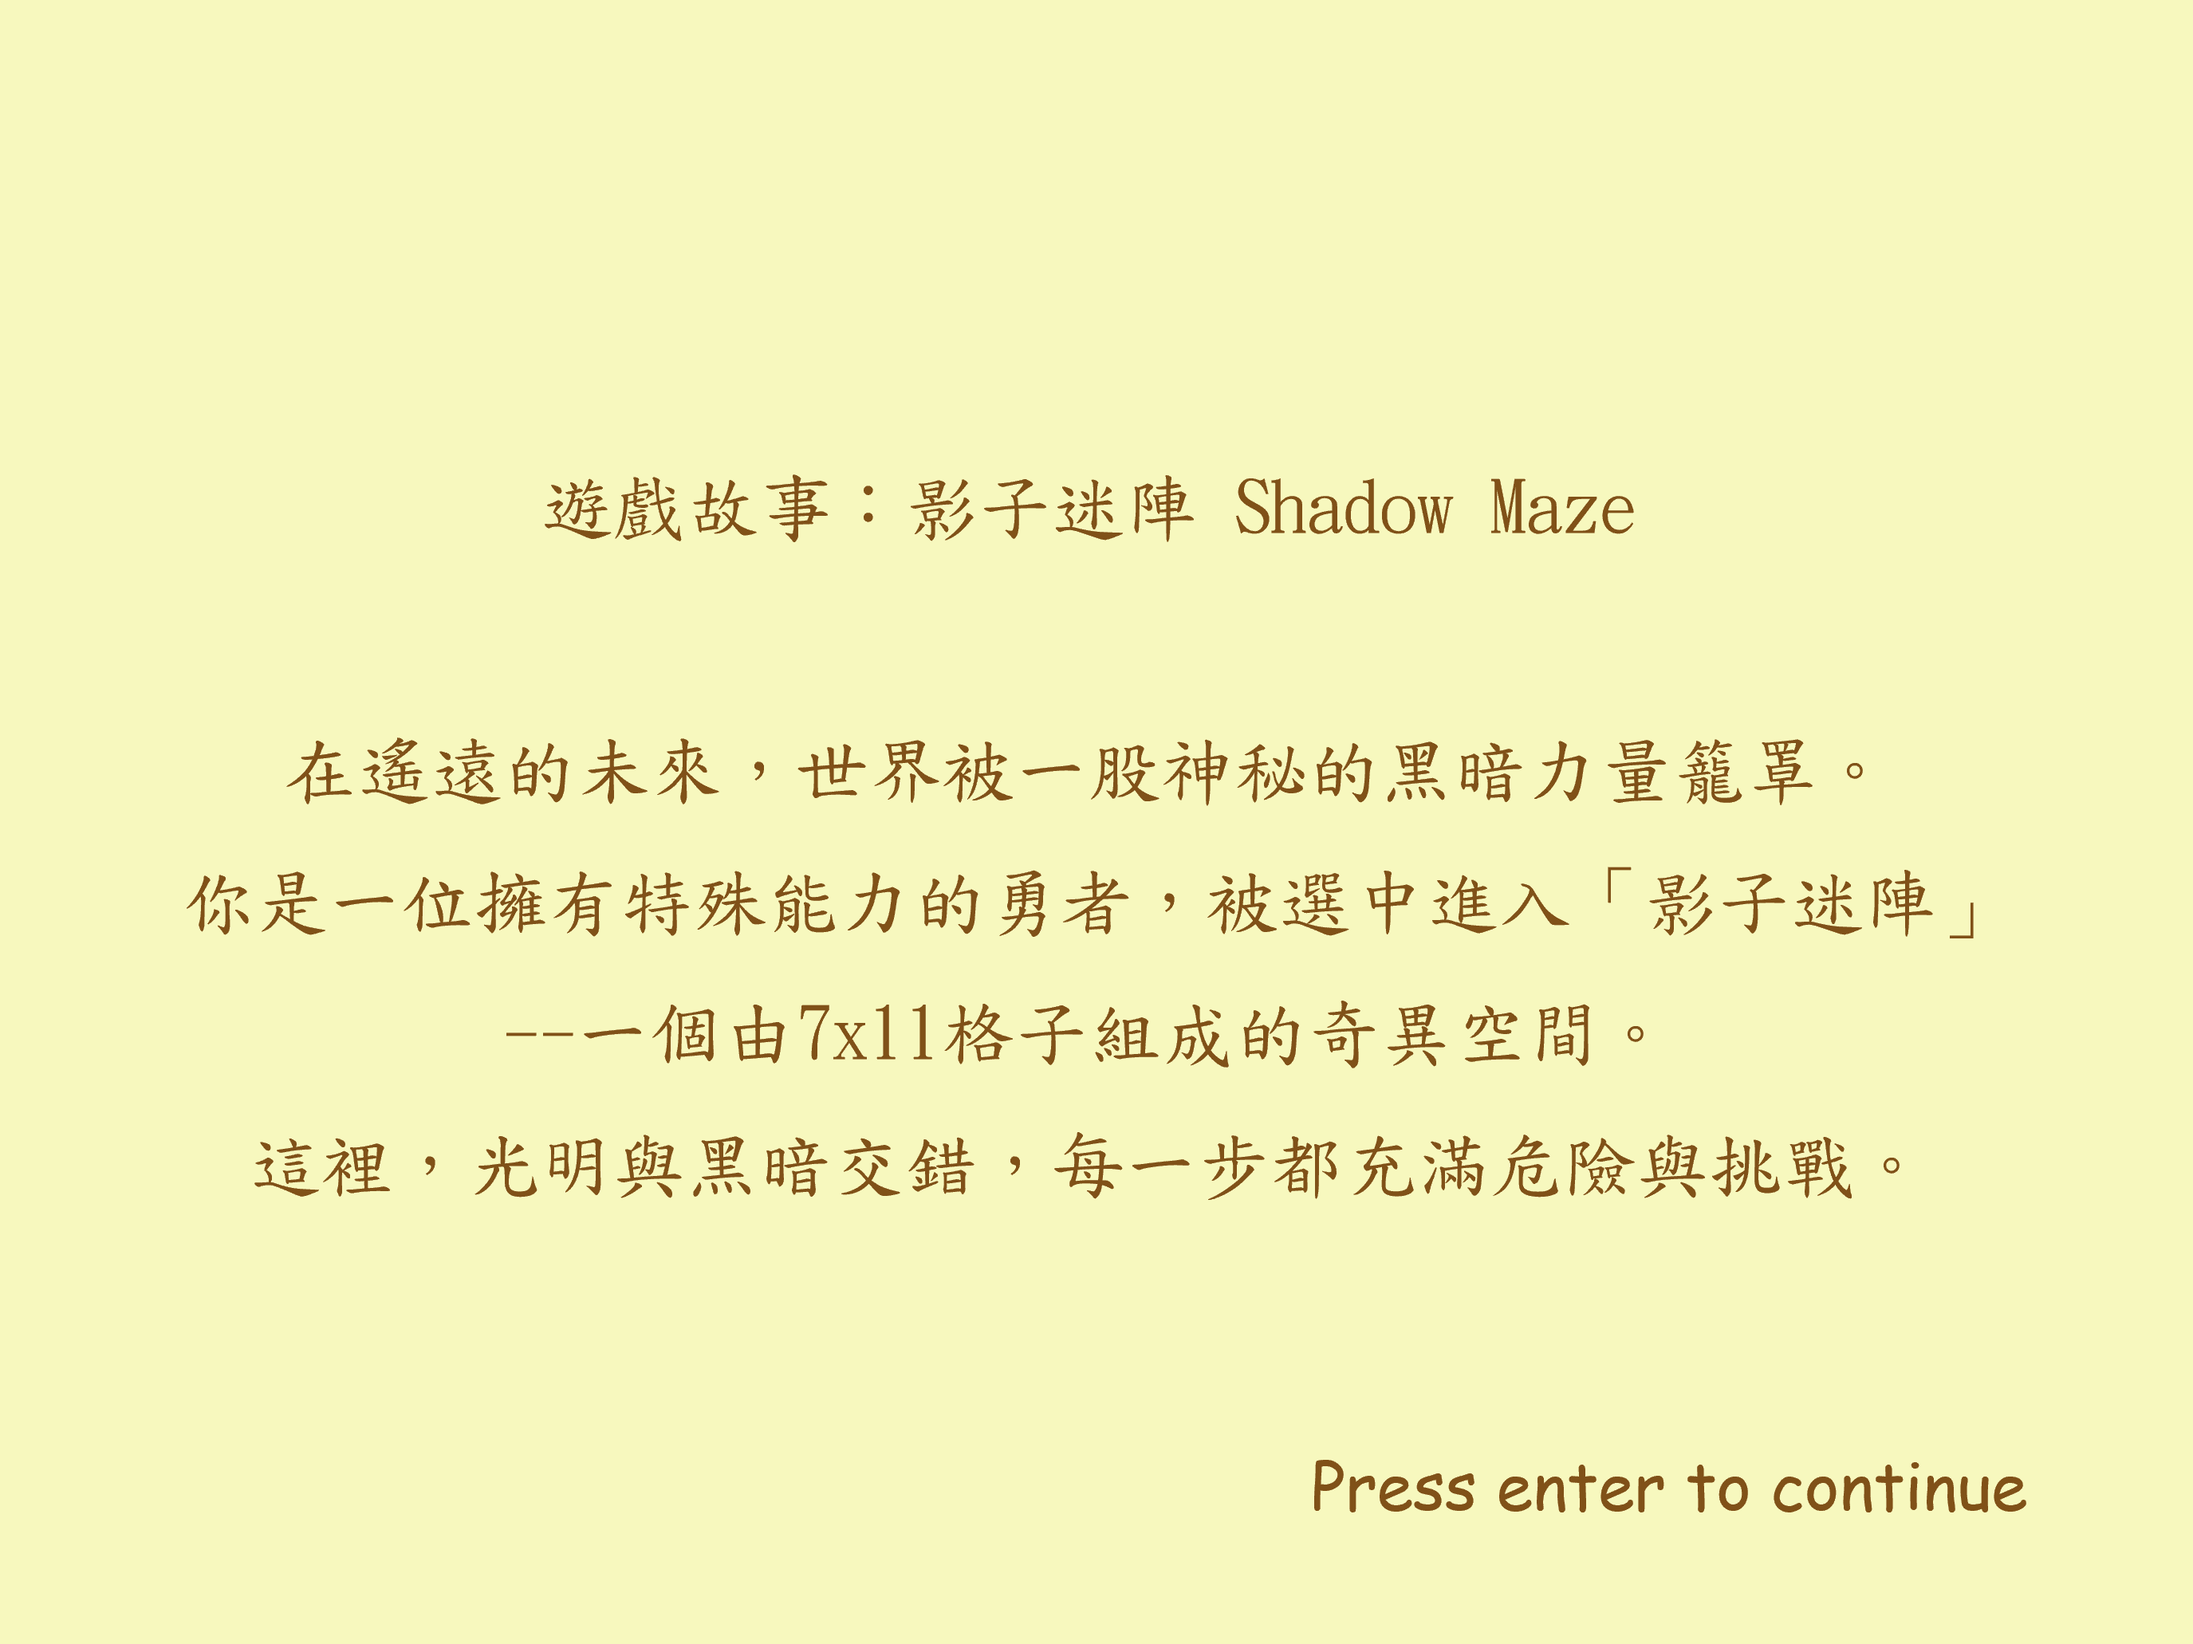
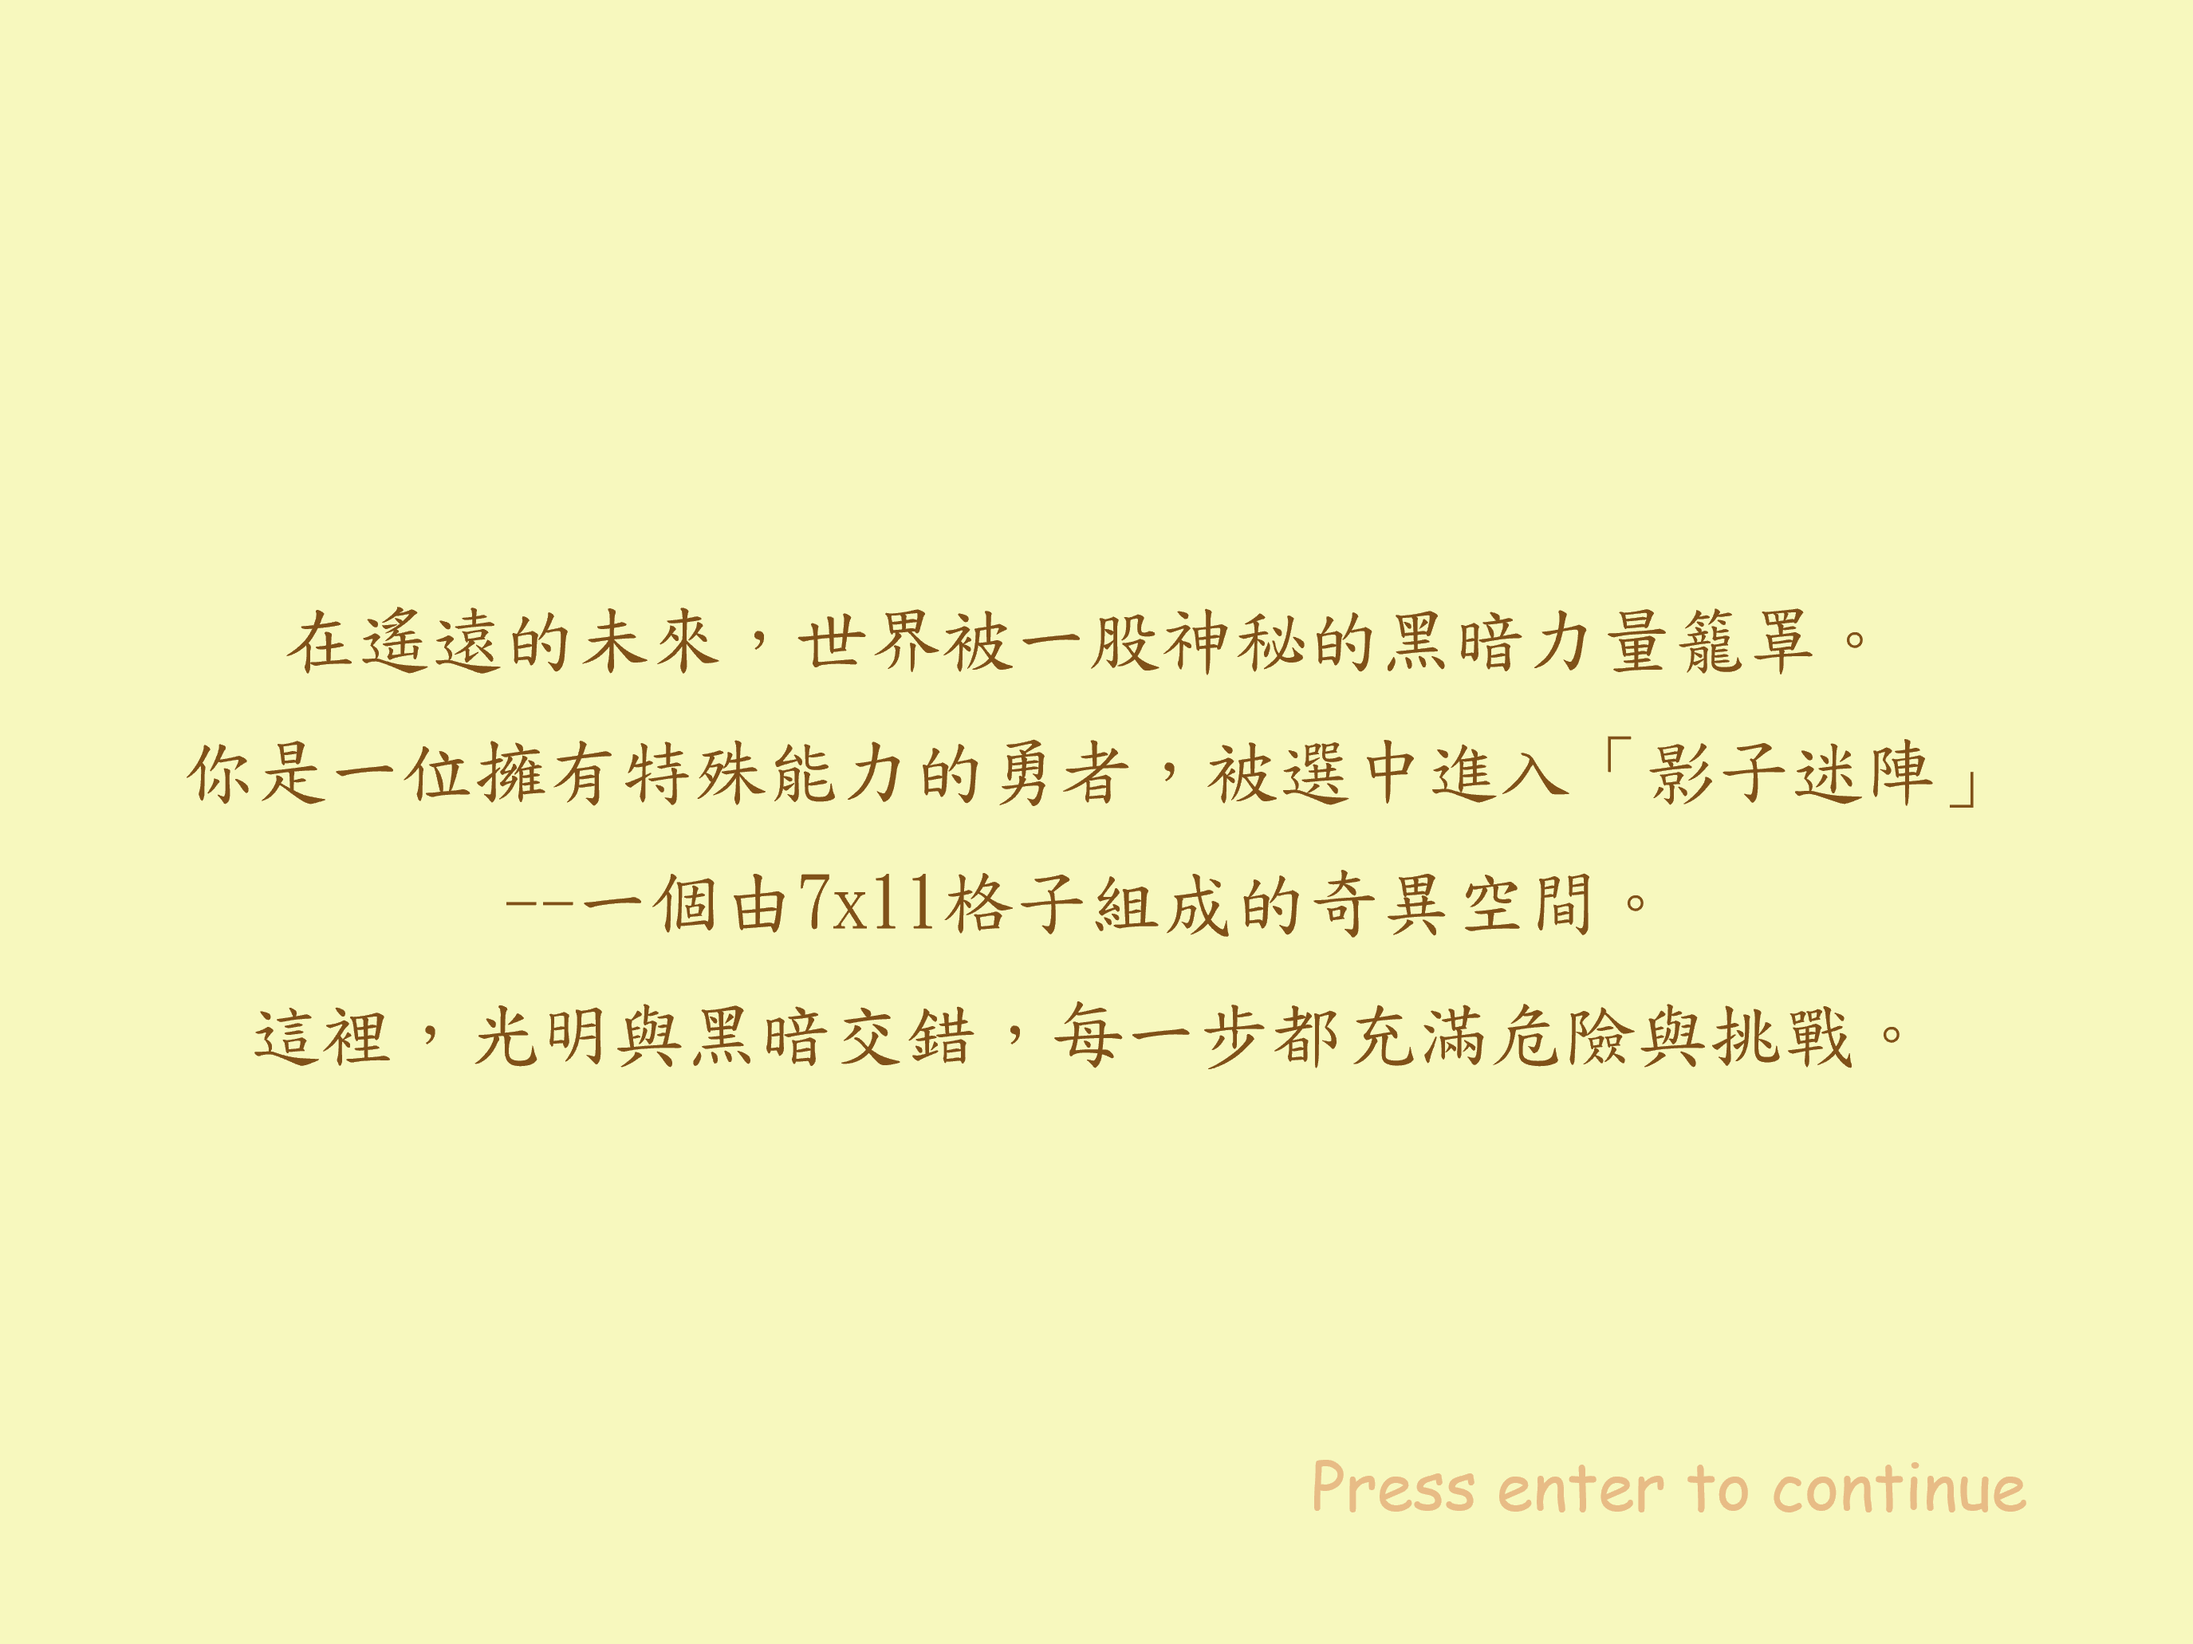
image: pages

diff --git a/canvas.py b/canvas.py
@@ -74,7 +74,7 @@ def draw_credit(screen: pygame.Surface):
 def draw_battle(stage:Stage, screen: pygame.Surface):
 	# fill background
 	# screen.fill((255, 127, 127))
-	screen.fill((251, 219, 147))
+	screen.fill((247, 248, 190))
 	width = screen.get_width()
 	height = screen.get_height()
 	center = Vector2(width, height) / 2
